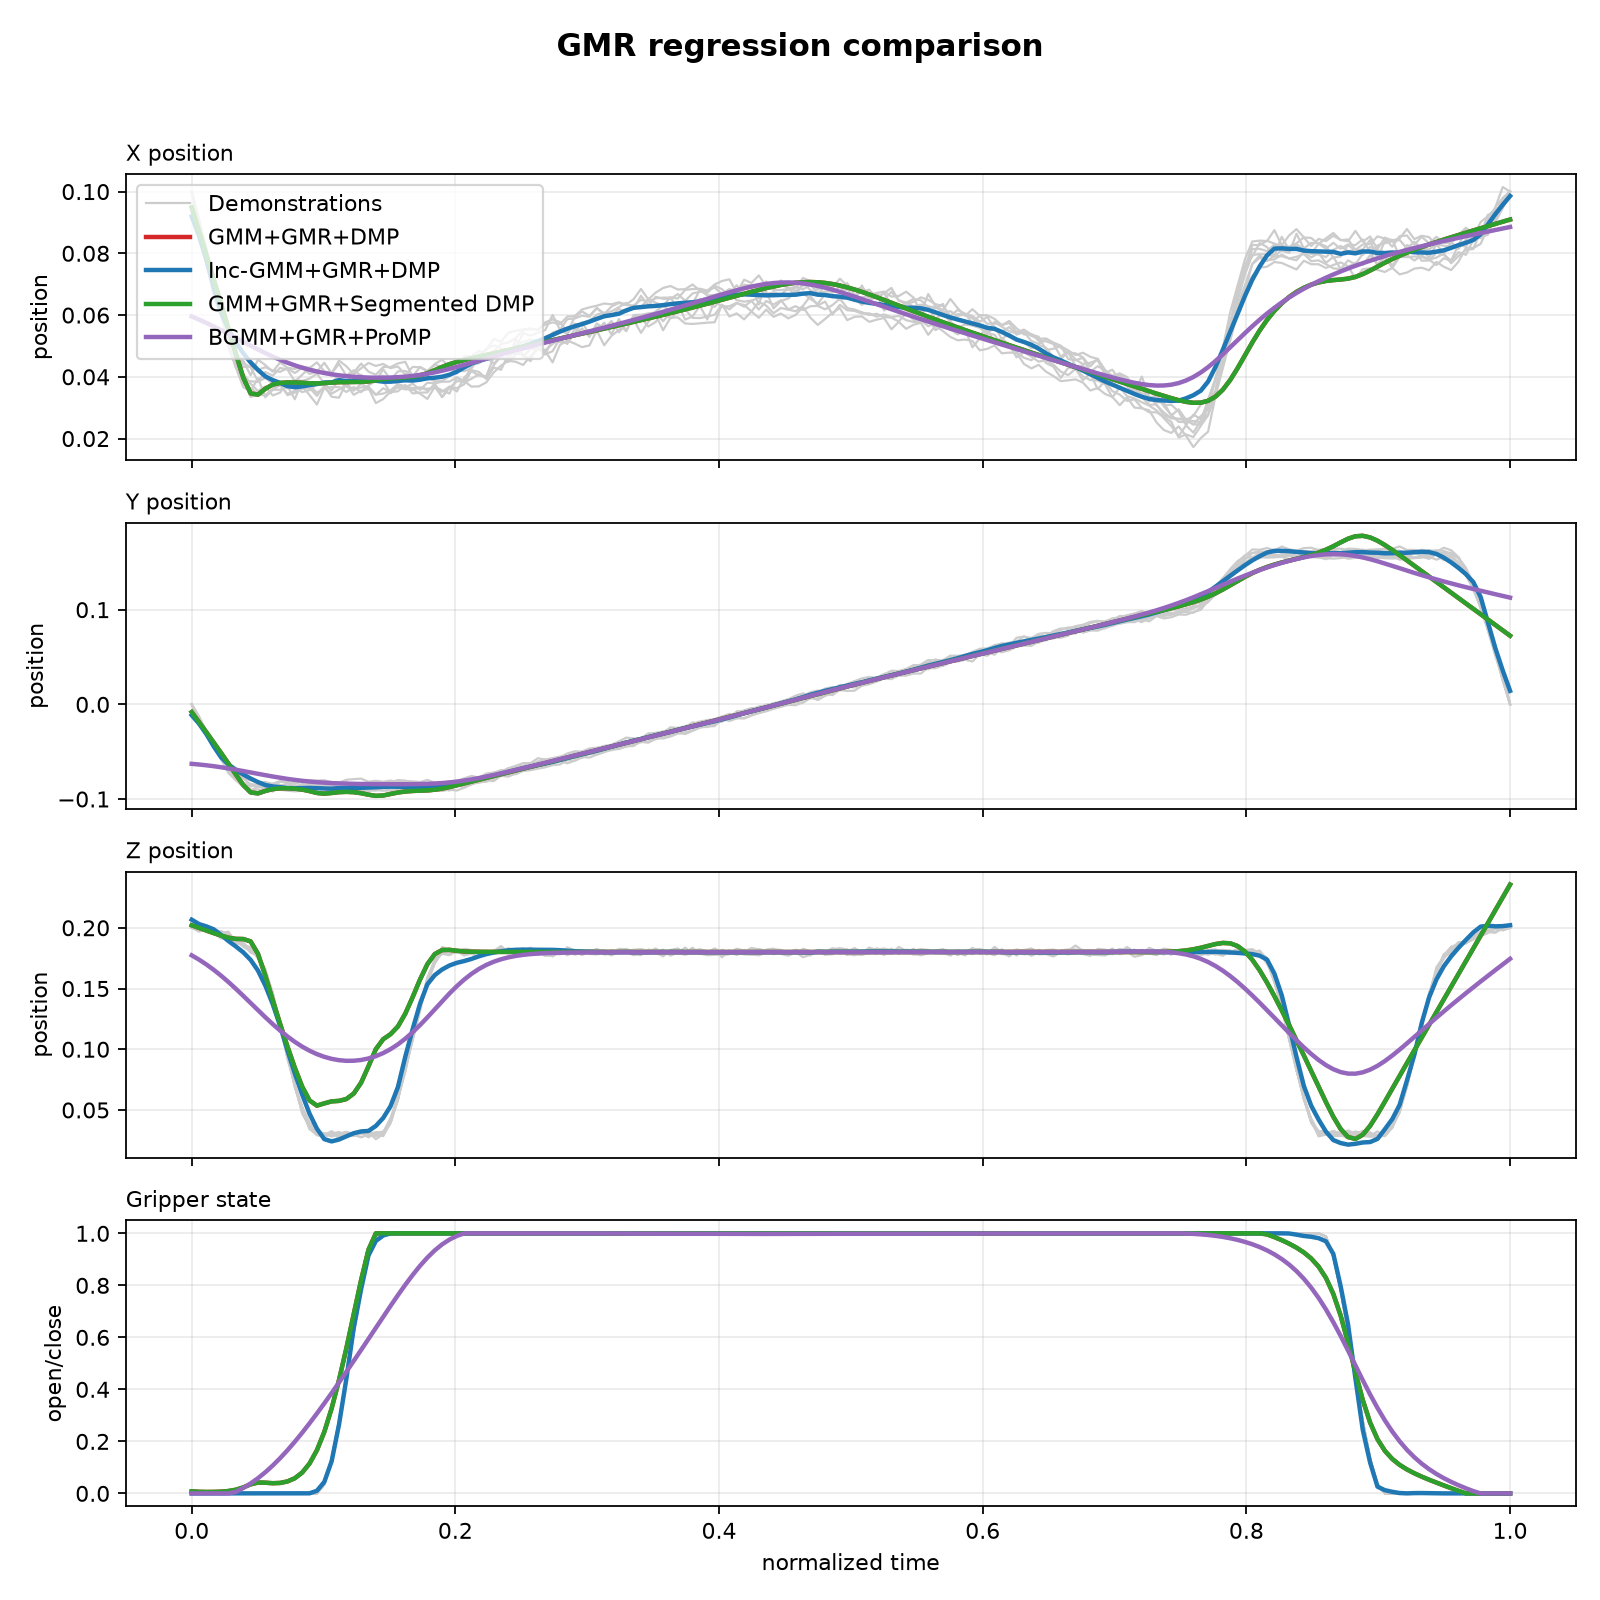
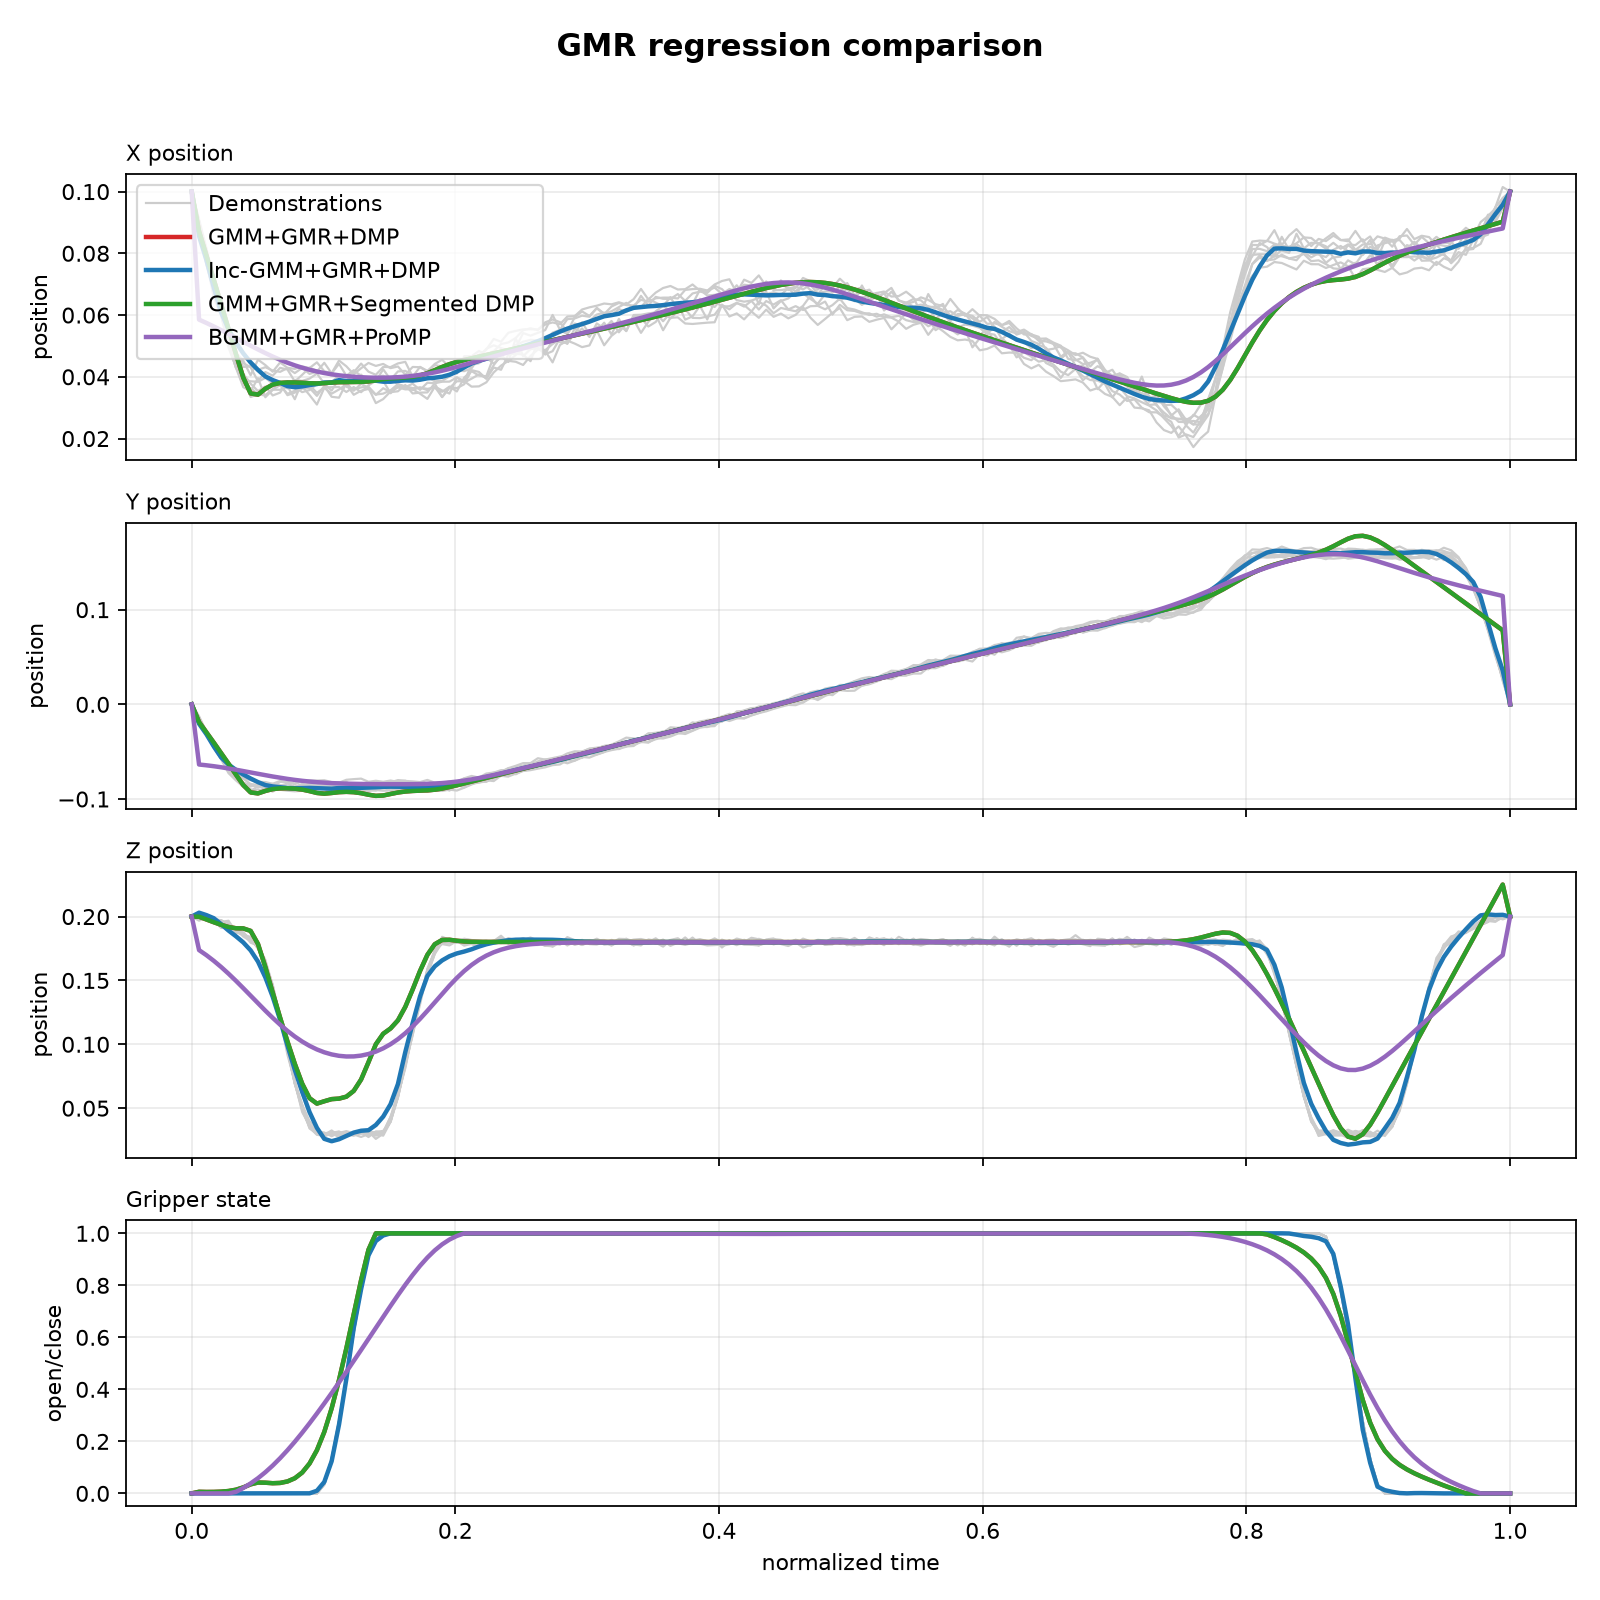
anchor GMR endpoints and separate gripper plots

diff --git a/src/dobot_algorithms/movement_primitives.py b/src/dobot_algorithms/movement_primitives.py
@@ -57,6 +57,7 @@ class GMMGMRDMP:
             self.config.n_time_steps,
             self.n_dims,
         )
+        _anchor_gmr_endpoints(self.gmr_trajectory_, trajectories)
         self.trajectory_ = self._fit_dmp(self.gmr_trajectory_).dynamic_rollout()
         self._clip_gripper()
         return self
@@ -140,6 +141,7 @@ class IncGMMGMRDMP(GMMGMRDMP):
             self.config.n_time_steps,
             self.n_dims,
         )
+        _anchor_gmr_endpoints(self.gmr_trajectory_, trajectories)
         self.trajectory_ = self._fit_dmp(self.gmr_trajectory_).dynamic_rollout()
         self._clip_gripper()
         return self
@@ -196,6 +198,7 @@ class BGMMGMRProMP(GMMGMRDMP):
             self.config.n_time_steps,
             self.n_dims,
         )
+        _anchor_gmr_endpoints(self.gmr_trajectory_, trajectories)
         self.trajectory_ = self._promp_reconstruct(self.gmr_trajectory_)
         self._clip_gripper()
         return self
@@ -237,6 +240,13 @@ def _regress_with_gmr(
     if output_dim >= 4:
         trajectory[:, 3] = np.clip(trajectory[:, 3], 0.0, 1.0)
     return trajectory
+
+
+def _anchor_gmr_endpoints(trajectory: np.ndarray, normalized_demos: list[np.ndarray]) -> None:
+    """Prevent GMR edge extrapolation from changing the demonstrated start/goal."""
+    demo_stack = np.stack(normalized_demos)
+    trajectory[0] = np.mean(demo_stack[:, 0], axis=0)
+    trajectory[-1] = np.mean(demo_stack[:, -1], axis=0)
 
 
 def _segmented_dmp_rollout(

diff --git a/src/dobot_algorithms/visualization.py b/src/dobot_algorithms/visualization.py
@@ -17,11 +17,12 @@ def plot_trajectories(
     output_path: str | Path,
     *,
     title: str = "Learned trajectory",
+    include_gripper: bool = False,
 ) -> None:
     output = Path(output_path)
     output.parent.mkdir(parents=True, exist_ok=True)
 
-    dims = mean_trajectory.shape[1]
+    dims = mean_trajectory.shape[1] if include_gripper or mean_trajectory.shape[1] < 4 else 3
     dim_names = _dimension_names(dims)
     fig, axes = plt.subplots(dims, 1, figsize=(10, max(3.8, 2.5 * dims)), sharex=True)
     if dims == 1:

diff --git a/models/algorithm_metrics.md b/models/algorithm_metrics.md
@@ -2,9 +2,9 @@
 
 | Algorithm | Pearson Mean | RMSE Mean | Pearson X | Pearson Y | Pearson Z | Pearson Gripper | RMSE X | RMSE Y | RMSE Z | RMSE Gripper |
 |---|---:|---:|---:|---:|---:|---:|---:|---:|---:|---:|
-| GMM+GMR+DMP | 0.8732 | 0.0372 | 0.5955 | 0.9869 | 0.9302 | 0.9800 | 0.0163 | 0.0209 | 0.0231 | 0.0885 |
-| Inc-GMM+GMR+DMP | 0.9507 | 0.0182 | 0.8285 | 0.9902 | 0.9870 | 0.9971 | 0.0123 | 0.0176 | 0.0101 | 0.0326 |
-| GMM+GMR+Segmented DMP | 0.9696 | 0.0232 | 0.9342 | 0.9902 | 0.9612 | 0.9930 | 0.0069 | 0.0125 | 0.0180 | 0.0553 |
-| BGMM+GMR+ProMP | 0.9416 | 0.0391 | 0.9061 | 0.9839 | 0.9051 | 0.9714 | 0.0082 | 0.0157 | 0.0283 | 0.1043 |
+| GMM+GMR+DMP | 0.7483 | 0.0450 | 0.1918 | 0.8924 | 0.9277 | 0.9810 | 0.0276 | 0.0456 | 0.0217 | 0.0851 |
+| Inc-GMM+GMR+DMP | 0.7729 | 0.0296 | 0.1807 | 0.9279 | 0.9857 | 0.9971 | 0.0310 | 0.0438 | 0.0108 | 0.0326 |
+| GMM+GMR+Segmented DMP | 0.9605 | 0.0256 | 0.9180 | 0.9708 | 0.9604 | 0.9929 | 0.0075 | 0.0214 | 0.0183 | 0.0550 |
+| BGMM+GMR+ProMP | 0.9507 | 0.0375 | 0.9328 | 0.9936 | 0.9049 | 0.9714 | 0.0072 | 0.0104 | 0.0282 | 0.1043 |
 
 Generated by `python -m dobot_algorithms.scripts.train_models --config configs/default.yaml`.

diff --git a/models/suction_arm/stage_metrics.md b/models/suction_arm/stage_metrics.md
@@ -2,11 +2,11 @@
 
 | Stage | Algorithm | Pearson Mean | RMSE Mean |
 |---|---|---:|---:|
-| GMR | GMM+GMR+DMP | 0.9716 | 0.0209 |
-| Primitive | GMM+GMR+DMP | 0.8732 | 0.0372 |
-| GMR | Inc-GMM+GMR+DMP | 0.9957 | 0.0045 |
-| Primitive | Inc-GMM+GMR+DMP | 0.9507 | 0.0182 |
-| GMR | GMM+GMR+Segmented DMP | 0.9716 | 0.0209 |
-| Primitive | GMM+GMR+Segmented DMP | 0.9696 | 0.0232 |
-| GMR | BGMM+GMR+ProMP | 0.9416 | 0.0390 |
-| Primitive | BGMM+GMR+ProMP | 0.9416 | 0.0391 |
+| GMR | GMM+GMR+DMP | 0.9727 | 0.0204 |
+| Primitive | GMM+GMR+DMP | 0.7483 | 0.0450 |
+| GMR | Inc-GMM+GMR+DMP | 0.9958 | 0.0044 |
+| Primitive | Inc-GMM+GMR+DMP | 0.7729 | 0.0296 |
+| GMR | GMM+GMR+Segmented DMP | 0.9727 | 0.0204 |
+| Primitive | GMM+GMR+Segmented DMP | 0.9605 | 0.0256 |
+| GMR | BGMM+GMR+ProMP | 0.9470 | 0.0380 |
+| Primitive | BGMM+GMR+ProMP | 0.9507 | 0.0375 |
